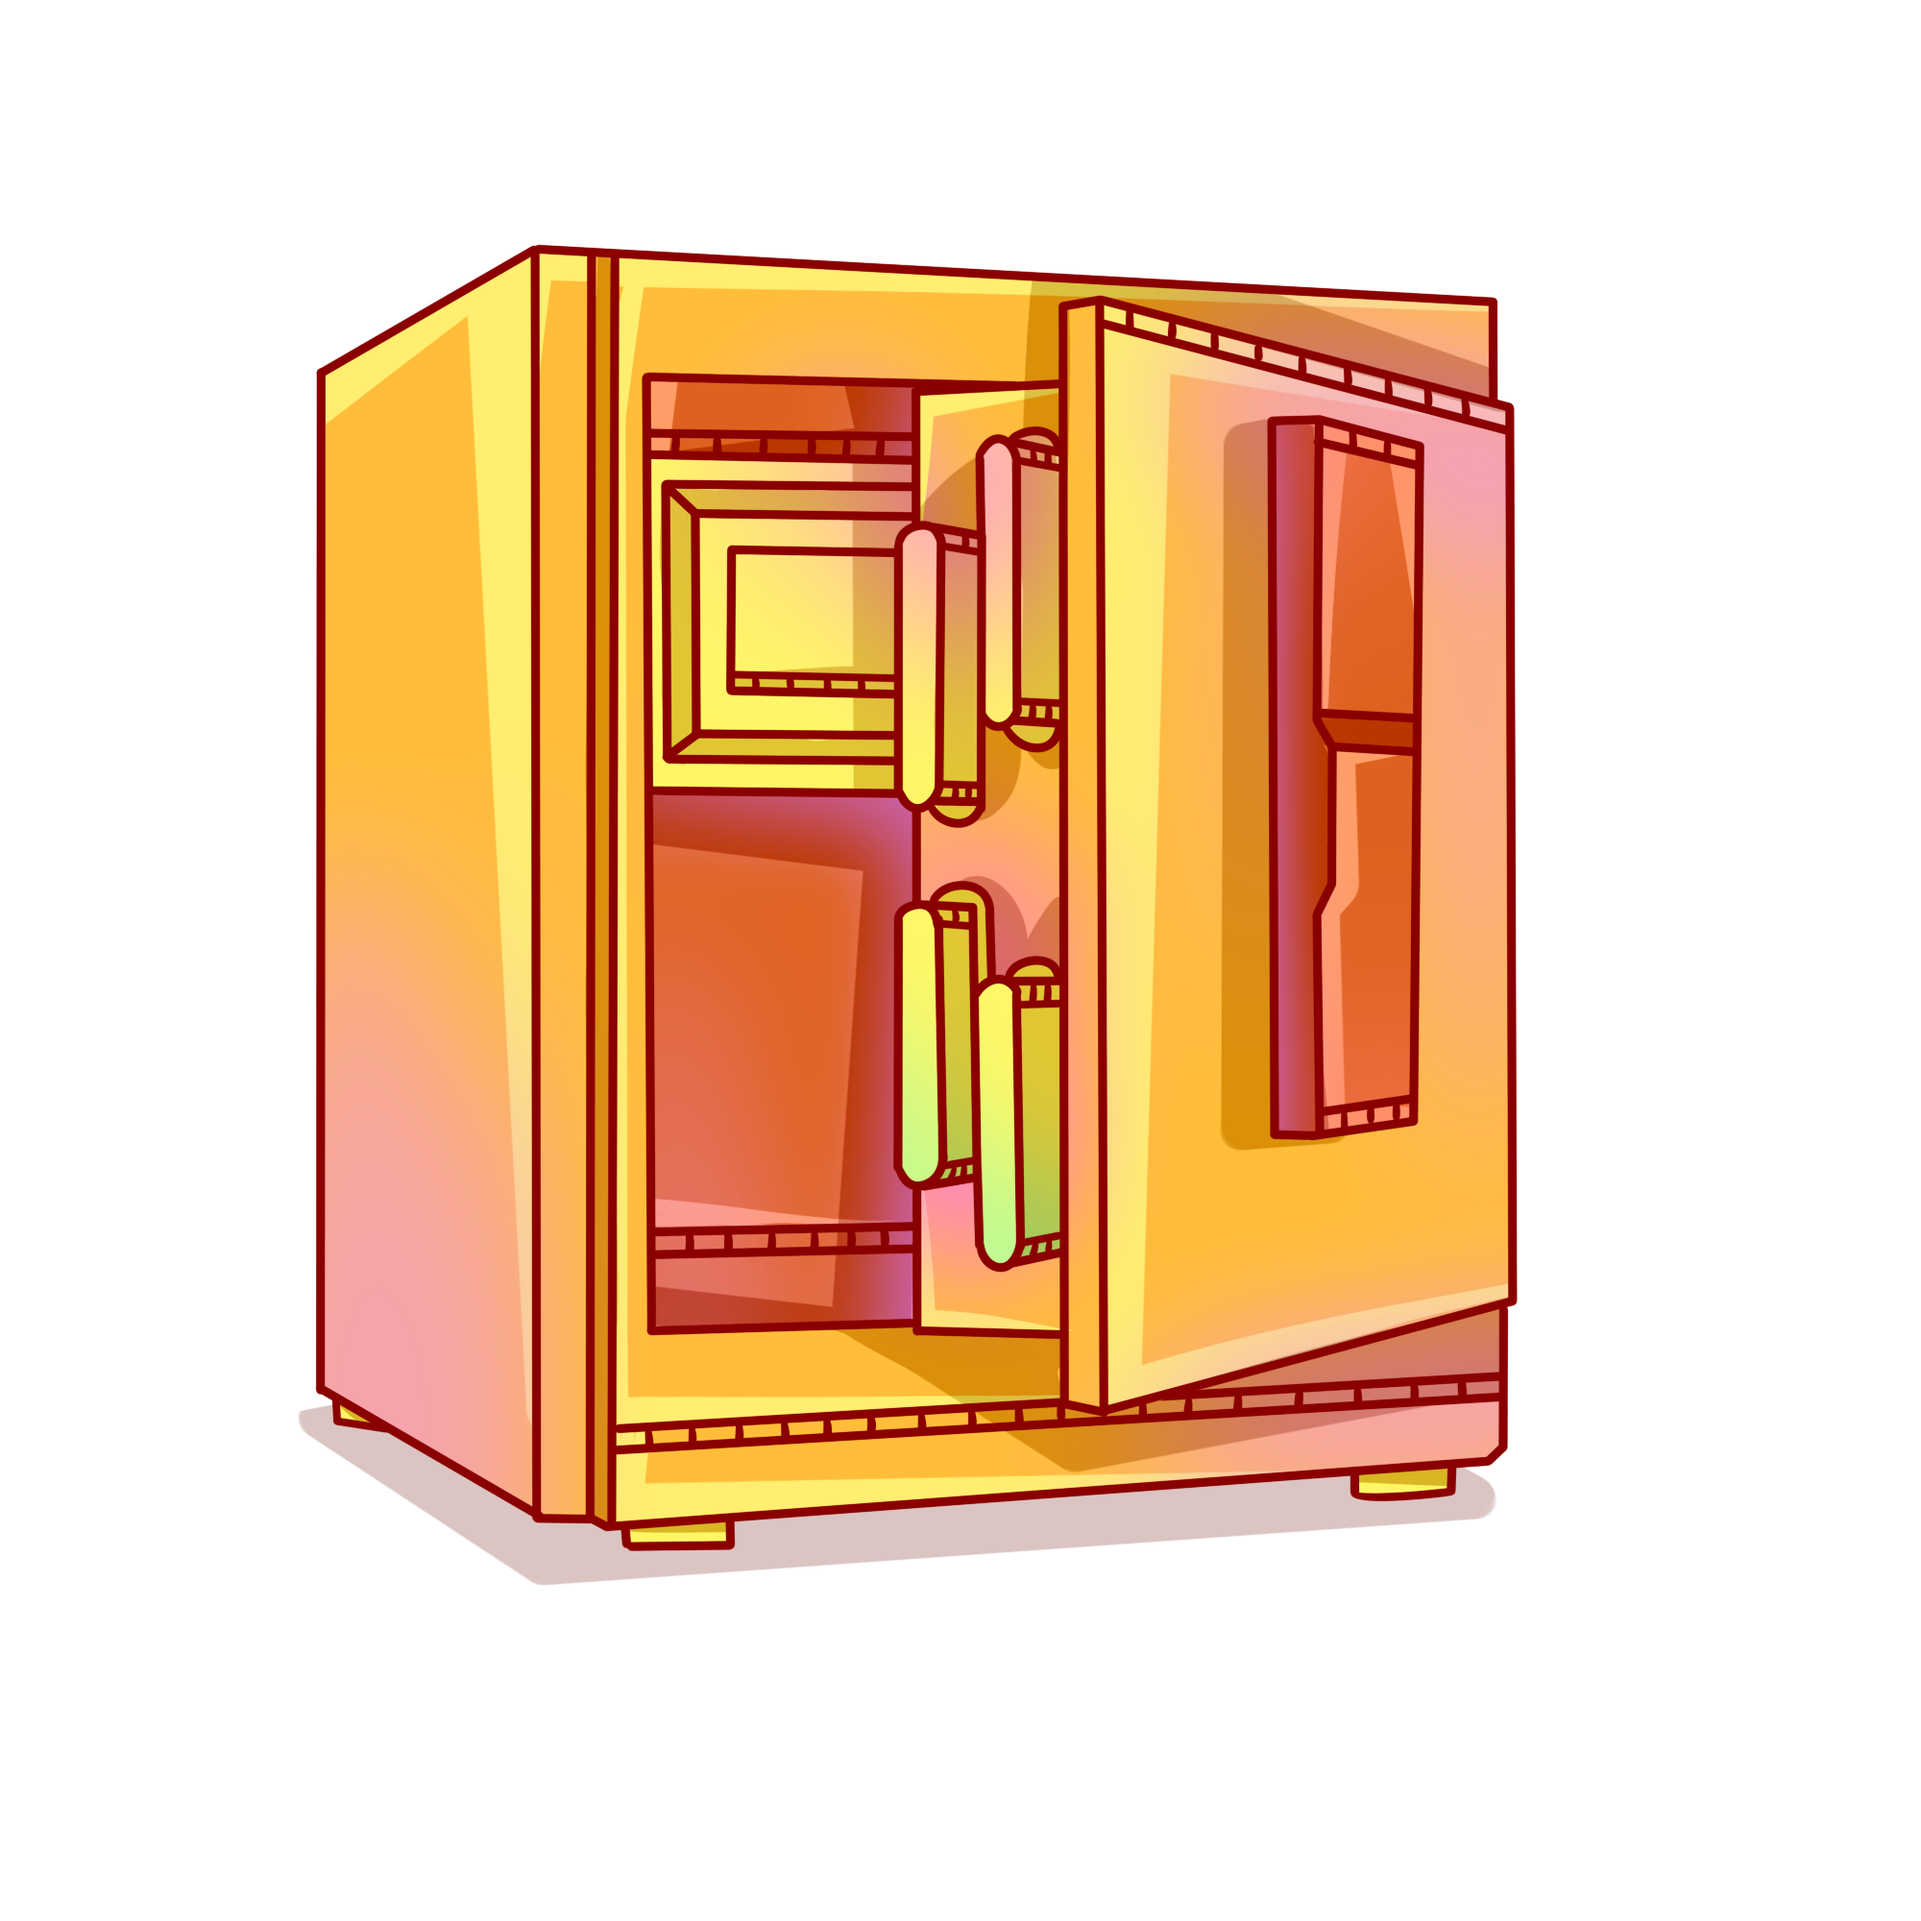
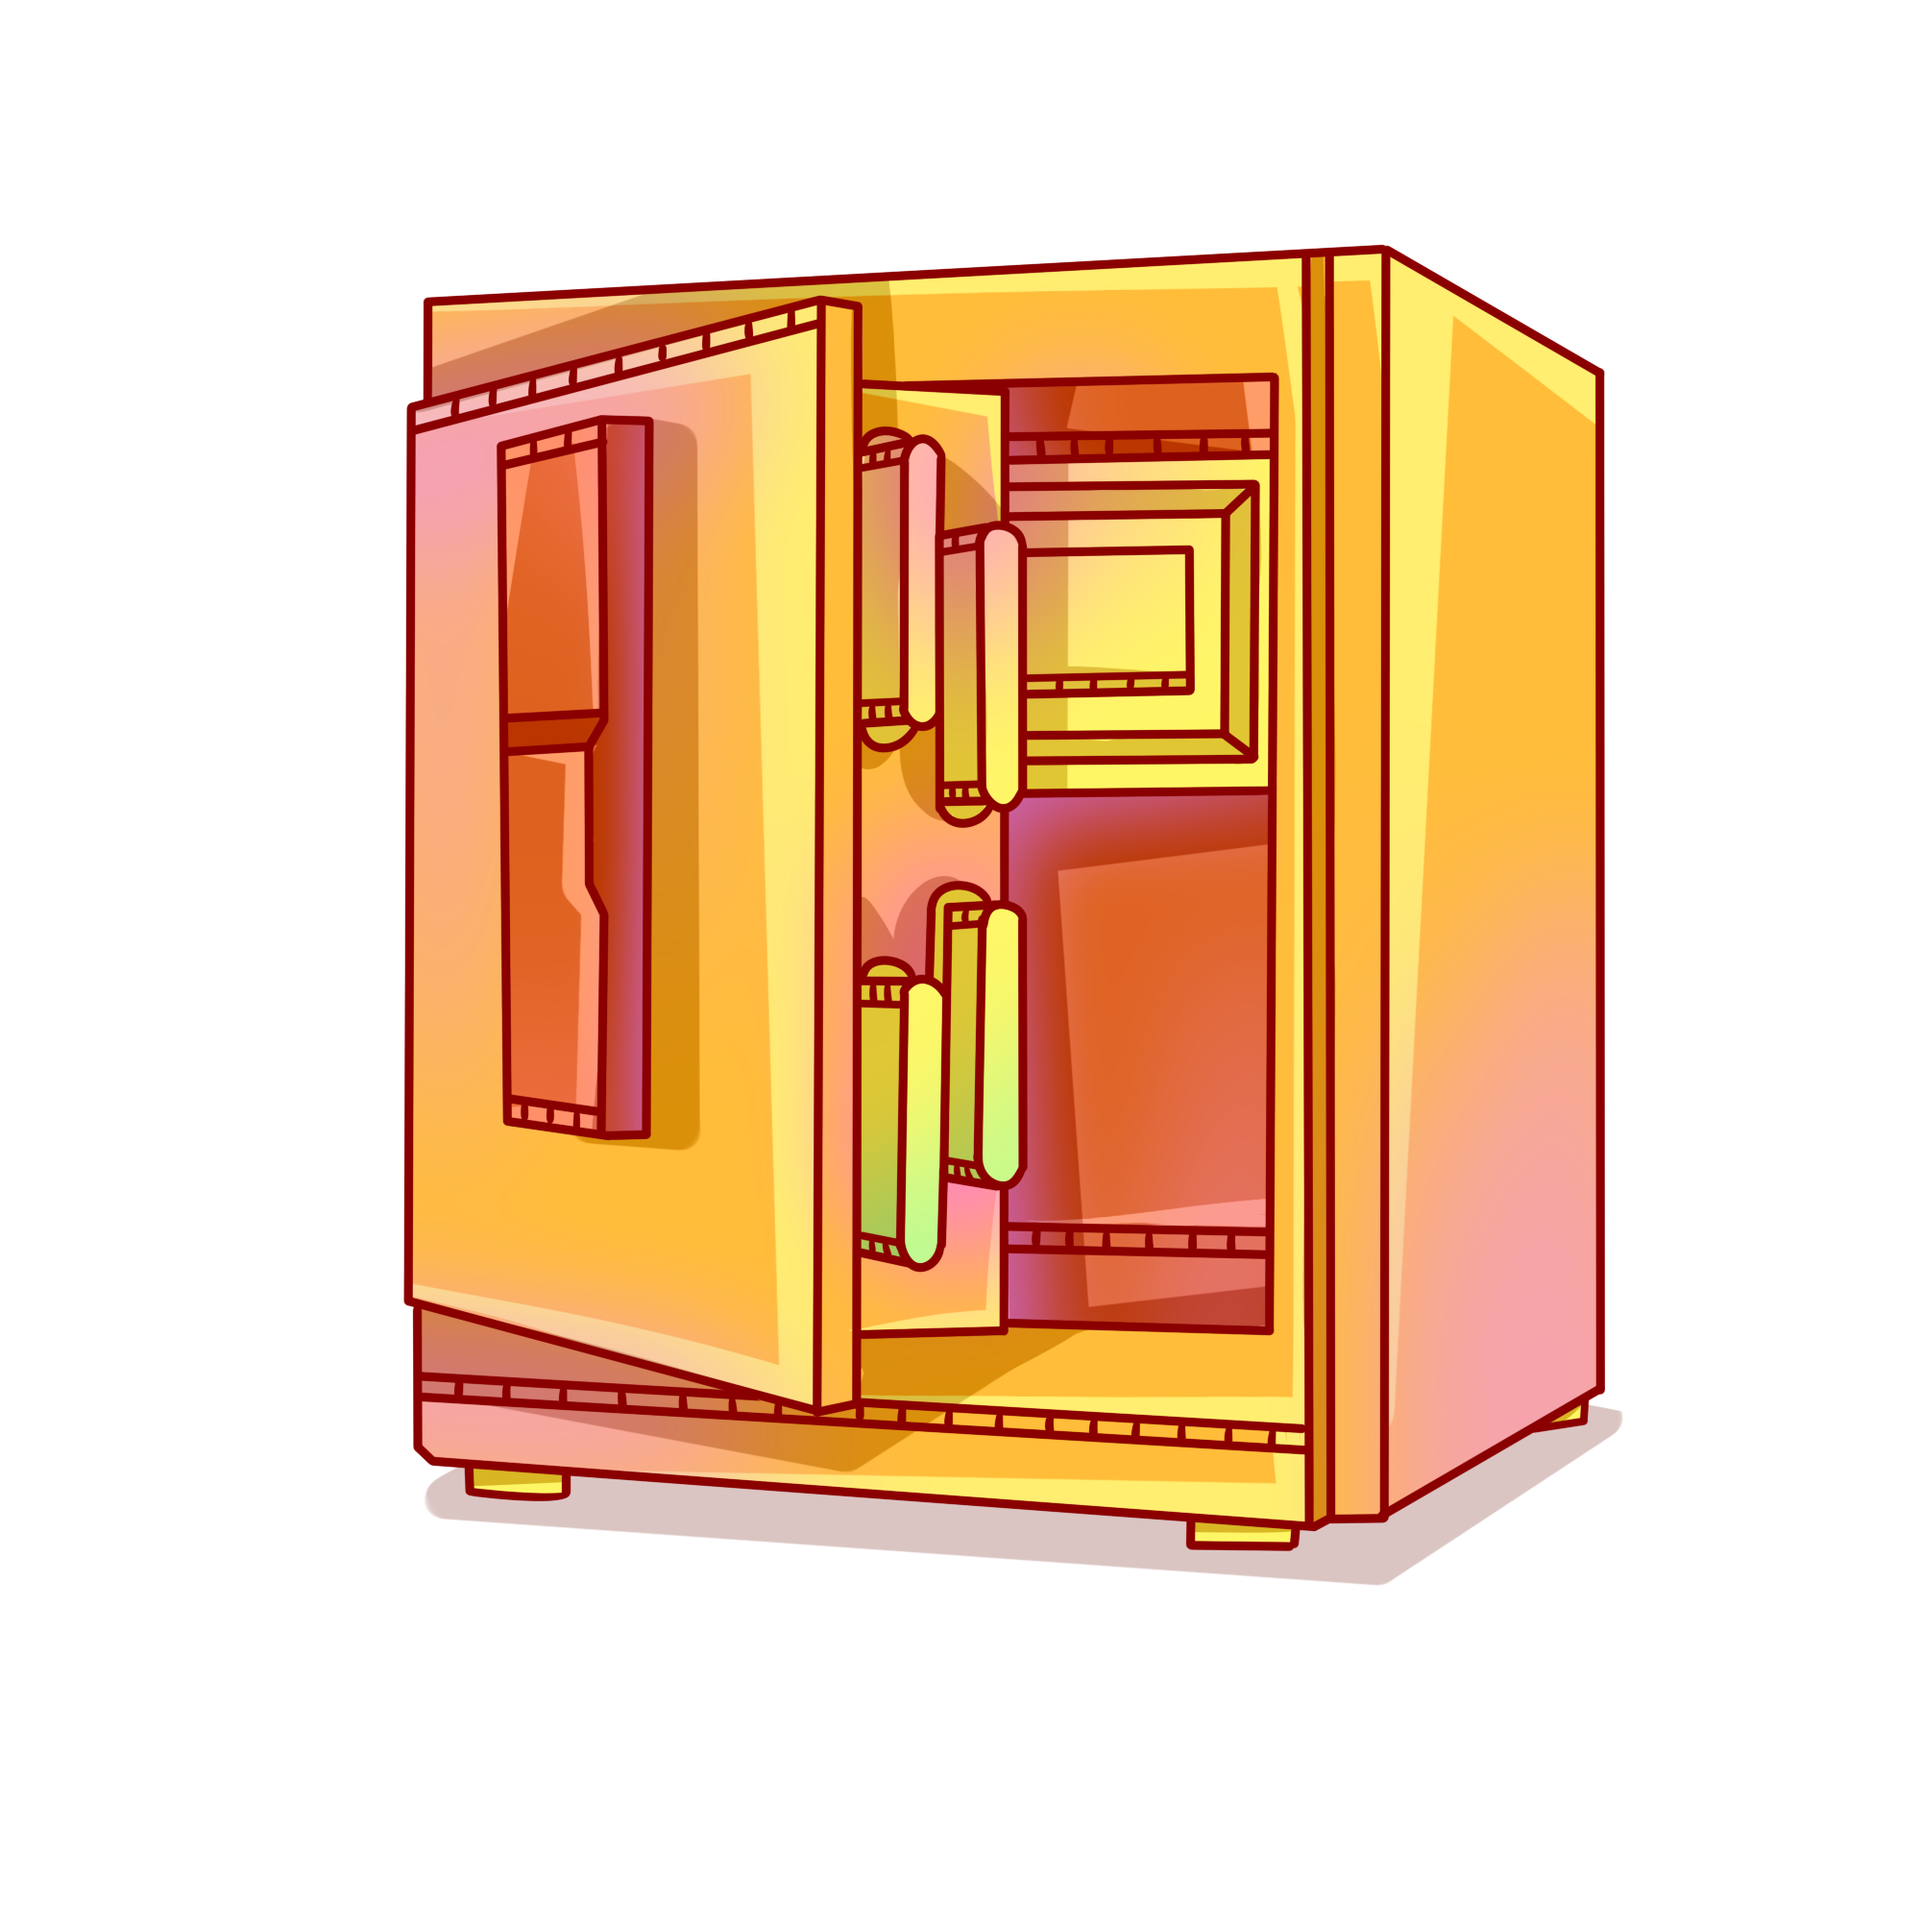
Window added with rock to break

diff --git a/src/components/levels/LevelTwo.js b/src/components/levels/LevelTwo.js
@@ -9,6 +9,10 @@ import { Paper1 } from "../level-items/Paper1"
 import { Paper2 } from "../level-items/Paper2"
 import { Paper3 } from "../level-items/Paper3"
 import { Broom } from "../level-items/Broom"
+import { Rock } from "../level-items/Rock"
+import { Window } from "../level-items/Window"
+import { BrokenGlass } from "../level-items/BrokenGlass"
+// import { BrokenGlass } from "../level-items/BrokenGlass" 
 import { useContext, useState, useEffect } from 'react'
 import { AppContext } from '../../AppContext'
 
@@ -21,11 +25,14 @@ export const LevelTwo = ({ setPlayerLocation, logs, setLogs }) => {
   const { light3, setLight3 } = useContext(AppContext)
   const { hasBroom, setHasBroom } = useContext(AppContext)
   const { isSafeSolved, setSafeSolved } = useContext(AppContext)
-  const [safeAppears, setSafeAppears] = useState(false)
-  const [isSafeClicked, setSafeClicked] = useState(false)
+  const { safeAppears, setSafeAppears } = useContext(AppContext)
+  const { isSafeClicked, setSafeClicked } = useContext(AppContext)
   const { hasPaper1, setHasPaper1 } = useContext(AppContext)
   const { hasPaper2, setHasPaper2 } = useContext(AppContext)
   const { hasPaper3, setHasPaper3 } = useContext(AppContext)
+  const { hasRock, setHasRock } = useContext(AppContext)
+  const { isWindowBroken, setIsWindowBroken} = useContext(AppContext)
+
   
   useEffect(() => {
     if (light1 === 0 && light2 === 1 && light3 === 2) {
@@ -55,8 +62,12 @@ export const LevelTwo = ({ setPlayerLocation, logs, setLogs }) => {
       {!hasPaper2 && <Paper2  />}
       {!hasPaper3 && <Paper3  />}
       {!hasBroom &&<Broom /> }
-      {safeAppears && <Safe setSafeClicked={setSafeClicked} isSafeClicked={isSafeClicked}/>}
+      {safeAppears && <Safe />}
       {isSafeClicked && <SafeForm />}
+      {(isSafeSolved && !hasRock)&& <Rock />}
+      <div className="item-border" id='window-border'></div>
+      {!isWindowBroken && <Window/>}
+      {isWindowBroken && <BrokenGlass />}
       <img className="down-arrow" src={downArrow} onClick={goToBasement}/>
     </div>
   )

diff --git a/src/App.js b/src/App.js
@@ -31,6 +31,10 @@ function App() {
   const [hasPaper3, setHasPaper3] = useState(false)
   const [hasPaper4, setHasPaper4] = useState(false)
   const [hasPaper5, setHasPaper5] = useState(false)
+  const [hasRock, setHasRock] = useState(false)
+  const [safeAppears, setSafeAppears] = useState(false)
+  const [isSafeClicked, setSafeClicked] = useState(false)
+  const [isWindowBroken, setIsWindowBroken] = useState(false)
 
   // Locations are: 1 for basement, 2 for kitchen, 3 for garden
   const [playerLocation, setPlayerLocation] = useState(1)
@@ -42,7 +46,7 @@ function App() {
 
   return (
     <div className= "center">
-      <AppContext.Provider value={{pouch, setPouch, logs, setLogs, hasBook, setHasBook, isPadlockSolved, setPadlockSolved, doorOneOpen, setDoorOneOpen, hasBroom, setHasBroom, hasTurnedOnPower, setHasTurnedOnPower, light1, setLight1, light2, setLight2, light3, setLight3, isSafeSolved, setSafeSolved, hasPaper1, setHasPaper1, hasPaper2, setHasPaper2, hasPaper3, setHasPaper3, hasPaper4, setHasPaper4, hasPaper5, setHasPaper5}} >
+      <AppContext.Provider value={{pouch, setPouch, logs, setLogs, hasBook, setHasBook, isPadlockSolved, setPadlockSolved, doorOneOpen, setDoorOneOpen, hasBroom, setHasBroom, hasTurnedOnPower, setHasTurnedOnPower, light1, setLight1, light2, setLight2, light3, setLight3, isSafeSolved, setSafeSolved, hasPaper1, setHasPaper1, hasPaper2, setHasPaper2, hasPaper3, setHasPaper3, hasPaper4, setHasPaper4, hasPaper5, setHasPaper5, hasRock, setHasRock, safeAppears, setSafeAppears, isSafeClicked, setSafeClicked, isWindowBroken, setIsWindowBroken}} >
       <div className='game-interface'>
         <MyStopwatch />
         {playerLocation === 1 && <LevelOne

diff --git a/src/components/level-items/Safe.js b/src/components/level-items/Safe.js
@@ -3,9 +3,10 @@ import openSafe from "../../images/items/openSafe.png"
 import { AppContext } from "../../AppContext"
 import { useContext } from "react"
 
-export const Safe = ({setSafeClicked, isSafeClicked}) => {
+export const Safe = () => {
   const { isSafeSolved, setSafeSolved } = useContext(AppContext)
   const { logs, setLogs } = useContext(AppContext)
+  const { setSafeClicked, isSafeClicked} = useContext(AppContext)
 
   const safeClicked = () => {
     setSafeClicked(!isSafeClicked)
@@ -15,9 +16,9 @@ export const Safe = ({setSafeClicked, isSafeClicked}) => {
 
   return isSafeSolved ?
     (
-     <img src={openSafe} className="item" id="safe"/>
+     <img src={openSafe} className="item" id="open-safe"/>
   ) :
     (
-      <img src={closedSafe} className="item" id="safe" onClick={safeClicked}/>
+      <img src={closedSafe} className="item" id="closed-safe" onClick={safeClicked}/>
   ) 
 }

diff --git a/src/components/level-items/Window.js b/src/components/level-items/Window.js
@@ -1,0 +1,23 @@
+import window from '../../images/items/window.png';
+import arrowDown from '../../images/items/arrowDown.png';
+import { AppContext } from "../../AppContext";
+import { useContext } from "react";
+
+export const Window = () => {
+  const { logs, setLogs } = useContext(AppContext)
+  const { hasRock, setHasRock } = useContext(AppContext)
+  const { isWindowBroken, setIsWindowBroken} = useContext(AppContext)
+
+  const clickWindow = () => {
+    hasRock ? setIsWindowBroken(!isWindowBroken) : setLogs([...logs, <p> A nigh indestructible window </p>])
+  }
+  return ( isWindowBroken ? 
+    <div>
+       <img id="arrow-outside" className="item" src={arrowDown}  />
+    </div>
+    : 
+    <div>
+       <img id="window-border" className="item" src={window} onClick={clickWindow} />
+    </div>
+  )
+}

diff --git a/src/components/level-items/Rock.js b/src/components/level-items/Rock.js
@@ -1,0 +1,21 @@
+import rock from "../../images/items/rock.png";
+import { PouchRock } from "../pouch-items/PouchRock";
+import { AppContext } from "../../AppContext";
+import { useContext } from "react";
+
+export const Rock = () => {
+  const { hasRock, setHasRock } = useContext(AppContext)
+  const { logs, setLogs } = useContext(AppContext)
+  const { pouch, setPouch } = useContext(AppContext)
+
+  const grabRock = () => {
+    setHasRock(!hasRock);
+    setLogs([...logs, <p>Ohh... A special window breaking rock!</p>])
+    setPouch([...pouch, <PouchRock />])
+  }
+  return (
+    <div>
+      <img className="rock" src={rock} onClick={grabRock} />
+    </div>
+  )
+}

diff --git a/src/App.css b/src/App.css
@@ -174,8 +174,15 @@ input[type="text"] {
   right: 220px;
 }
 
-#safe {
+#closed-safe {
   height: 90px;
+  position: absolute;
+  bottom: 160px;
+  left: 120px;
+}
+
+#open-safe {
+  height: 120px;
   position: absolute;
   bottom: 160px;
   left: 120px;
@@ -215,6 +222,22 @@ input[type="text"] {
   bottom: 10px;
   left: 300px;
 }
+
+.rock {
+  height: 30px;
+  position: absolute;
+  bottom: 200px;
+  left: 150px;
+}
+
+#window-border {
+  height: 130px;
+  position: absolute;
+  bottom: 300px;
+  right: 50px;
+  outline: 2px dashed blue;
+}
+
 /* input[type="submit"] {
   width: 10px;
 } */

diff --git a/src/components/pouch-items/PouchRock.js b/src/components/pouch-items/PouchRock.js
@@ -1,0 +1,16 @@
+import rock from "../../images/items/rock.png";
+import { AppContext } from "../../AppContext";
+import { useContext } from "react";
+
+export const PouchRock = () => {
+  const { logs, setLogs } = useContext(AppContext)
+
+  const clickPouchRock = () => {
+    setLogs([...logs, <p> A window breaking rock... what could I use that for?</p>])
+  }
+  return (
+    <div>
+      <img id="pouch-rock" className="item" src={rock} style={{ height: '30px'}} onClick={clickPouchRock}/>
+    </div>
+  )
+}

diff --git a/src/components/level-items/BrokenGlass.js b/src/components/level-items/BrokenGlass.js
@@ -1,0 +1,17 @@
+import brokenGlass from "../../images/items/brokenGlass.png"
+import { AppContext } from "../../AppContext";
+import { useContext } from "react";
+
+export const BrokenGlass = () => {
+  const { logs, setLogs } = useContext(AppContext)
+
+  const clickBrokenGlass = () => {
+    setLogs([...logs, <p> The remnants of the broken window</p>])
+  }
+  return (
+    <div>
+      <img src={brokenGlass} onClick={clickBrokenGlass} />
+    </div>
+  )
+}
+
